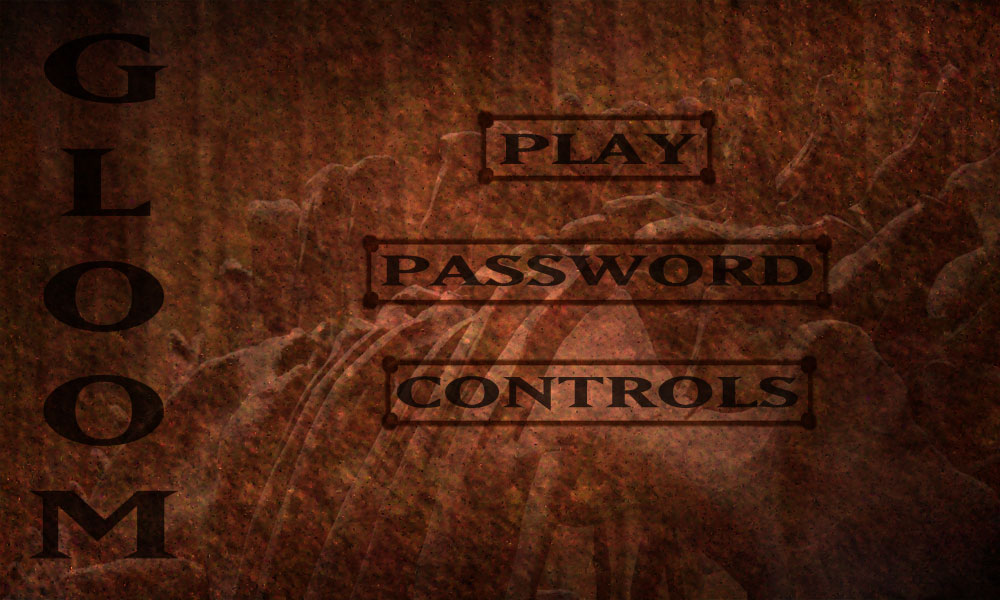
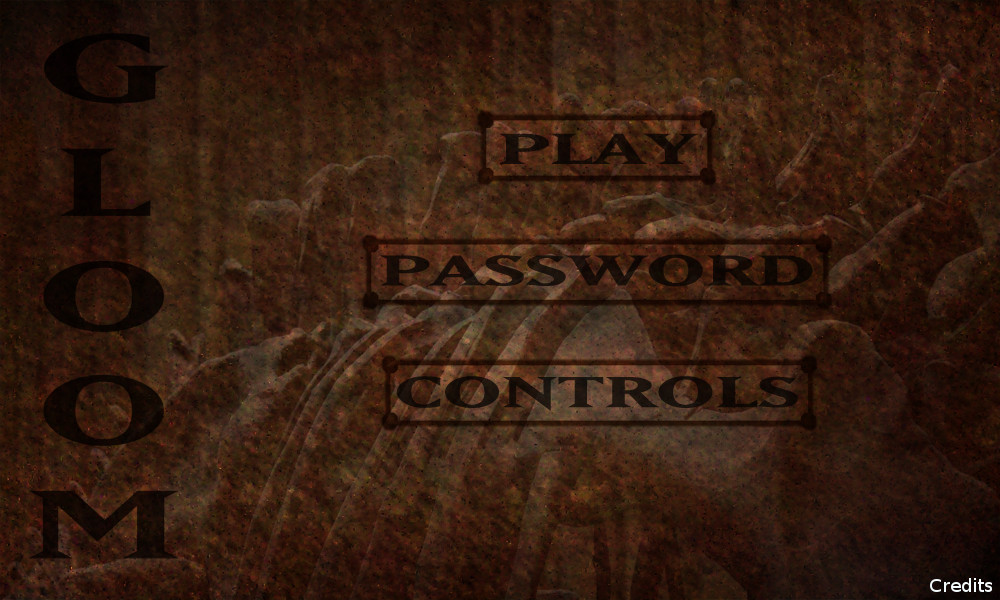
Scenery

diff --git a/WorkingTitle/staticScenes.js b/WorkingTitle/staticScenes.js
@@ -1,0 +1,157 @@
+var gameOverSceneInit = function(){
+  
+  //get Doom Background Image
+  this.gameOverImage = document.getElementById("gameOverImage");
+  this.crosshair = document.getElementById("crosshair1");
+  
+  this.buttons = [{x: 0, y: 0, w: 1000, h: 600, action: function(){activeScene = new Scene(menuSceneInit, menuSceneLoop);}}
+                  ];
+  
+  /************************************************************************
+  ** CODE MODIFIED FROM: http://www.evermade.fi/en/pure-three-js-hud/
+  ************************************************************************/
+
+	// Ok, now we have the cube. Next we'll create the hud. For that we'll
+  // need a separate scene which we'll render on top of our 3D scene. We'll
+  // use a dynamic texture to render the HUD.
+  
+  // We will use 2D canvas element to render our HUD.
+	this.hudCanvas = document.createElement('canvas');
+  
+  // Again, set dimensions to fit the screen.
+  this.hudCanvas.width = GAME_WINDOW_WIDTH;
+  this.hudCanvas.height = GAME_WINDOW_HEIGHT;
+
+  // Get 2D context and draw something supercool.
+  this.hudBitmap = this.hudCanvas.getContext('2d');
+     
+  // Create the camera and set the viewport to match the screen dimensions.
+  this.cameraHUD = new THREE.OrthographicCamera(-GAME_WINDOW_WIDTH/2, GAME_WINDOW_WIDTH/2, GAME_WINDOW_HEIGHT/2, -GAME_WINDOW_HEIGHT/2, 0, 30 );
+
+  // Create also a custom scene for HUD.
+  this.sceneHUD = new THREE.Scene();
+ 
+	// Create texture from rendered graphics.
+  this.hudTexture = new THREE.Texture(this.hudCanvas);
+  this.hudTexture.generateMipmaps = false;
+  this.hudTexture.minFilter = THREE.LinearFilter;
+  this.hudTexture.magFilter = THREE.LinearFilter;
+  this.hudTexture.needsUpdate = true;
+  
+  // Create HUD material.
+  var material = new THREE.MeshBasicMaterial( {map: this.hudTexture} );
+  material.transparent = true;
+
+  // Create plane to render the HUD. This plane fill the whole screen.
+  var planeGeometry = new THREE.PlaneGeometry( GAME_WINDOW_WIDTH, GAME_WINDOW_HEIGHT );
+  var plane = new THREE.Mesh( planeGeometry, material );
+  this.sceneHUD.add( plane );
+}
+
+
+var gameOverSceneLoop = function(){
+  // Update HUD graphics.
+  this.hudBitmap.clearRect(0, 0, GAME_WINDOW_WIDTH, GAME_WINDOW_HEIGHT);
+  this.hudBitmap.drawImage(this.gameOverImage, 0, 0, GAME_WINDOW_WIDTH, GAME_WINDOW_HEIGHT);
+  
+	this.hudBitmap.font = "Bold 40px Arial";
+  this.hudBitmap.textAlign = 'center';
+  for(var i = 0; i < this.buttons.length; i++) {
+  }
+  this.hudBitmap.drawImage(this.crosshair, INPUT.getMouseX()-32, INPUT.getMouseY()-32);
+	this.hudTexture.needsUpdate = true;
+  // Render HUD on top of the scene.
+  GAME.renderer.render(this.sceneHUD, this.cameraHUD);
+	
+	//handle input
+	while (INPUT.eventsToHandle() == true){
+		//console.log(INPUT.getNextEvent());
+		if(INPUT.getNextEvent().type=="mousedown" && document.pointerLockElement) { //only fire if pointer is locked
+		  for(var i = 0; i < this.buttons.length; i++) {
+		    if(INPUT.getMouseX() >= this.buttons[i].x && INPUT.getMouseX() < this.buttons[i].x+this.buttons[i].w && 
+   		     INPUT.getMouseY() >= this.buttons[i].y && INPUT.getMouseY() < this.buttons[i].y+this.buttons[i].h) {
+		      this.buttons[i].action();
+		    }
+		  }
+		}
+	}
+}
+
+var controlsSceneInit = function(){
+  
+  //get Doom Background Image
+  this.controlsImage = document.getElementById("controlsImage");
+  this.crosshair = document.getElementById("crosshair1");
+  
+  this.buttons = [{x: 0, y: 0, w: 1000, h: 600, action: function(){activeScene = new Scene(menuSceneInit, menuSceneLoop);}}
+                  ];
+  
+  /************************************************************************
+  ** CODE MODIFIED FROM: http://www.evermade.fi/en/pure-three-js-hud/
+  ************************************************************************/
+
+	// Ok, now we have the cube. Next we'll create the hud. For that we'll
+  // need a separate scene which we'll render on top of our 3D scene. We'll
+  // use a dynamic texture to render the HUD.
+  
+  // We will use 2D canvas element to render our HUD.
+	this.hudCanvas = document.createElement('canvas');
+  
+  // Again, set dimensions to fit the screen.
+  this.hudCanvas.width = GAME_WINDOW_WIDTH;
+  this.hudCanvas.height = GAME_WINDOW_HEIGHT;
+
+  // Get 2D context and draw something supercool.
+  this.hudBitmap = this.hudCanvas.getContext('2d');
+     
+  // Create the camera and set the viewport to match the screen dimensions.
+  this.cameraHUD = new THREE.OrthographicCamera(-GAME_WINDOW_WIDTH/2, GAME_WINDOW_WIDTH/2, GAME_WINDOW_HEIGHT/2, -GAME_WINDOW_HEIGHT/2, 0, 30 );
+
+  // Create also a custom scene for HUD.
+  this.sceneHUD = new THREE.Scene();
+ 
+	// Create texture from rendered graphics.
+  this.hudTexture = new THREE.Texture(this.hudCanvas);
+  this.hudTexture.generateMipmaps = false;
+  this.hudTexture.minFilter = THREE.LinearFilter;
+  this.hudTexture.magFilter = THREE.LinearFilter;
+  this.hudTexture.needsUpdate = true;
+  
+  // Create HUD material.
+  var material = new THREE.MeshBasicMaterial( {map: this.hudTexture} );
+  material.transparent = true;
+
+  // Create plane to render the HUD. This plane fill the whole screen.
+  var planeGeometry = new THREE.PlaneGeometry( GAME_WINDOW_WIDTH, GAME_WINDOW_HEIGHT );
+  var plane = new THREE.Mesh( planeGeometry, material );
+  this.sceneHUD.add( plane );
+}
+
+
+var controlsSceneLoop = function(){
+  // Update HUD graphics.
+  this.hudBitmap.clearRect(0, 0, GAME_WINDOW_WIDTH, GAME_WINDOW_HEIGHT);
+  this.hudBitmap.drawImage(this.controlsImage, 0, 0, GAME_WINDOW_WIDTH, GAME_WINDOW_HEIGHT);
+  
+	this.hudBitmap.font = "Bold 40px Arial";
+  this.hudBitmap.textAlign = 'center';
+  for(var i = 0; i < this.buttons.length; i++) {
+  }
+  this.hudBitmap.drawImage(this.crosshair, INPUT.getMouseX()-32, INPUT.getMouseY()-32);
+	this.hudTexture.needsUpdate = true;
+  // Render HUD on top of the scene.
+  GAME.renderer.render(this.sceneHUD, this.cameraHUD);
+	
+	//handle input
+	while (INPUT.eventsToHandle() == true){
+		//console.log(INPUT.getNextEvent());
+		if(INPUT.getNextEvent().type=="mousedown" && document.pointerLockElement) { //only fire if pointer is locked
+		  for(var i = 0; i < this.buttons.length; i++) {
+		    if(INPUT.getMouseX() >= this.buttons[i].x && INPUT.getMouseX() < this.buttons[i].x+this.buttons[i].w && 
+   		     INPUT.getMouseY() >= this.buttons[i].y && INPUT.getMouseY() < this.buttons[i].y+this.buttons[i].h) {
+		      this.buttons[i].action();
+		    }
+		  }
+		}
+	}
+}

diff --git a/WorkingTitle/index.html b/WorkingTitle/index.html
@@ -5,13 +5,18 @@
 		<title>Working Title</title>
 		<style>
 			canvas {
-    position: absolute;
-    top:0;
-    bottom: 0;
-    left: 0;
-    right: 0;
-    margin:auto;}
+        position: absolute;
+        top:0;
+        bottom: 0;
+        left: 0;
+        right: 0;
+        margin:auto;
+        clear: left;
+      }
 			img {display: none;}
+			#credits {
+			  float: right;
+			}
 		</style>
 	</head>
 	<body onload="main()">
@@ -21,7 +26,10 @@
 	  <img id="watson100" src="Watson_100.png" />
 	  <img id="doomArt" src="doom.jpg" />
 	  <img id="HUDimgBack" src="HUDimg.jpg" />
+	  <img id="gameOverImage" src="sucks.png" />
+	  <img id="controlsImage" src="controls.png" />
 	  <img id="crosshair1" src="crosshair.png" />
+	  <div id="credits">PLS</div>
 		<script src="Dependencies/cannon.min.js"></script>
 		<script src="Dependencies/three.min.js"></script>
 		<script src="Dependencies/OBJLoader.js"></script>
@@ -29,6 +37,7 @@
 		<script src="entity.js"></script>
 		<script src="weapon.js"></script>
 		<script src="scene.js"></script>
+		<script src="staticScenes.js"></script>
 		<script src="tickFunctions.js"></script>
 		<script type="text/javascript" src="mainFlow.js"></script>
 	</body>

diff --git a/WorkingTitle/scene.js b/WorkingTitle/scene.js
@@ -14,7 +14,8 @@ var menuSceneInit = function(){
   
   this.buttons = [{x: 485, y: 130, w: 225, h: 60, action: function(){activeScene = new Scene(gameSceneInit, gameSceneLoop);}},
                   {x: 373, y: 263, w: 450, h: 62, action: function(){alert("not yet implemented");}},
-                  {x: 392, y: 395, w: 415, h: 60, action: function(){alert("not yet implemented");}}
+                  {x: 392, y: 395, w: 415, h: 60, action: function(){activeScene = new Scene(controlsSceneInit, controlsSceneLoop);}},
+                  {x: 900, y: 600, w: 100, h: 50, action: function(){alert("not yet implemented");}}
                   ];
   
   /************************************************************************
@@ -108,7 +109,7 @@ var gameSceneInit = function(){
     light.position.y *= -1;
   GAME.scene.add( light );
 	
-	var ambientLight = new THREE.AmbientLight( 0x00ff00, 0.5 );
+	var ambientLight = new THREE.AmbientLight( 0x555555, 0.5 );
 	GAME.scene.add( ambientLight );
 	
 	GAME.camera = new THREE.PerspectiveCamera( 75, window.innerWidth / window.innerHeight, 0.1, 1000 );

diff --git a/WorkingTitle/tickFunctions.js b/WorkingTitle/tickFunctions.js
@@ -322,7 +322,7 @@ tickFunctions.boxTick = function(actions){
 		
 		// quit game
 		if(action.key == "p" && action.eventType == "keydown"){
-			activeScene = new Scene(menuSceneInit, menuSceneLoop);
+			activeScene = new Scene(gameOverSceneInit, gameOverSceneLoop);
 		}
 	}
 	
@@ -336,5 +336,5 @@ tickFunctions.boxTick = function(actions){
 	
 	//FALLING INTO THE VOID
 	if(this.mesh.position.y < -50 || this.currentHealth <= 0)
-	  activeScene = new Scene(menuSceneInit, menuSceneLoop);
+	  activeScene = new Scene(gameOverSceneInit, gameOverSceneLoop);
 }
